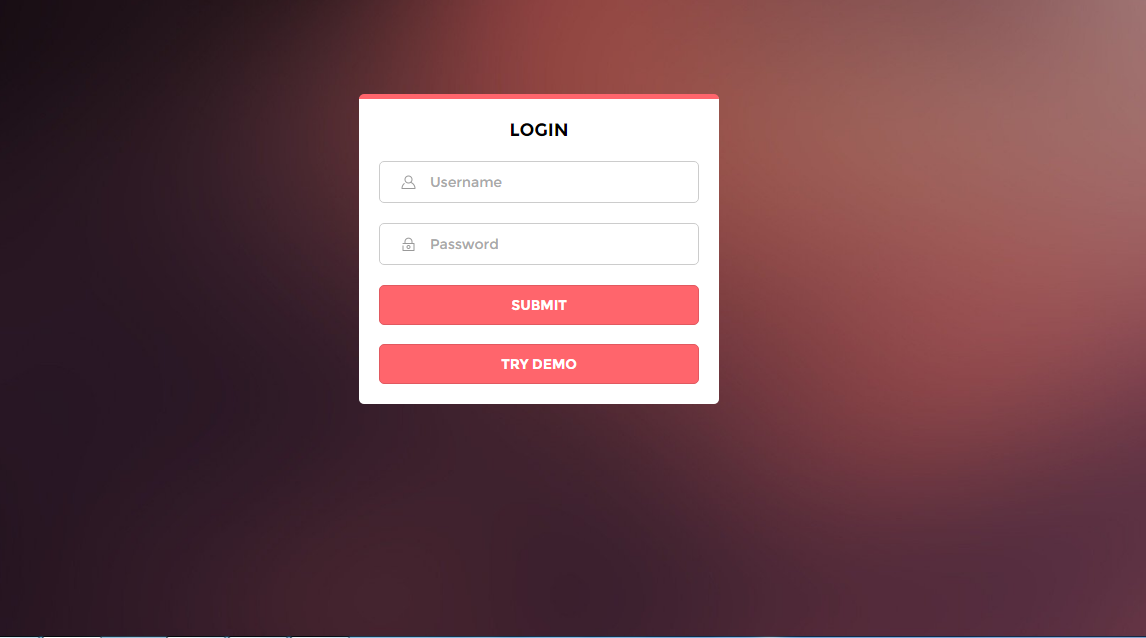
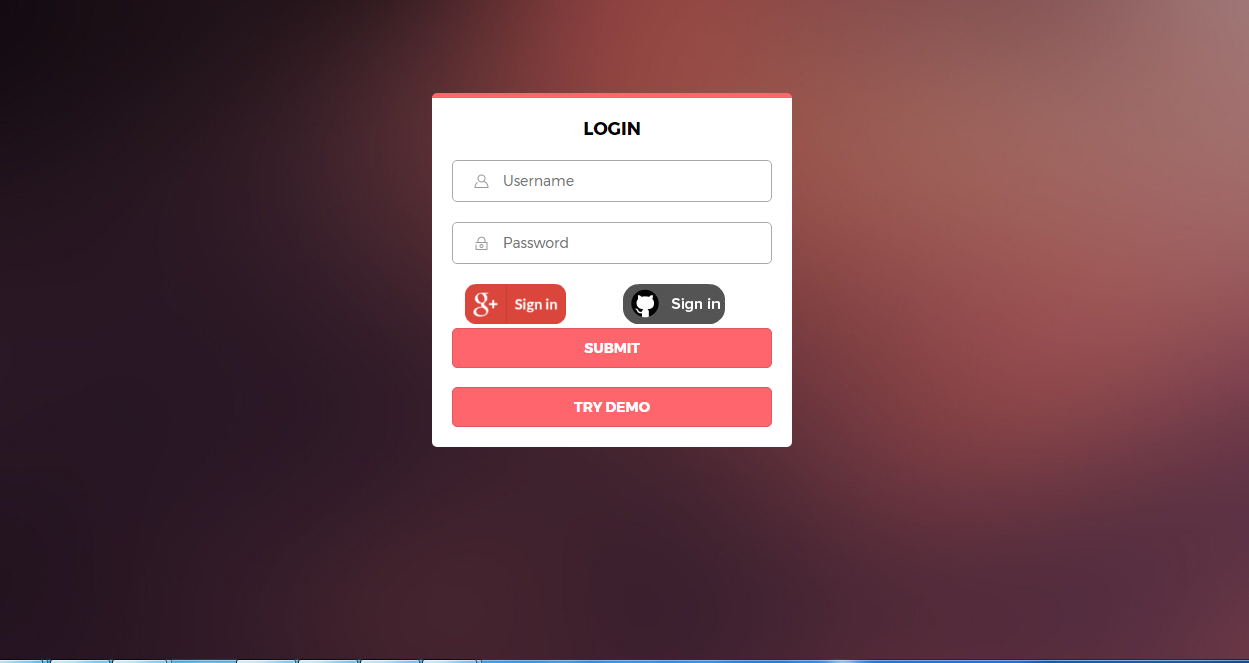
UI Changes

Changed region(s): [[0.3054, 0.1191, 0.6414, 0.685], [0.0, 0.9828, 1.0, 1.0]]

diff --git a/project/helloapp/howdy/templates/index.html b/project/helloapp/howdy/templates/index.html
@@ -53,6 +53,7 @@ body {
 .login-block input#username {
     background: #fff url('http://i.imgur.com/u0XmBmv.png') 20px top no-repeat;
     background-size: 16px 80px;
+    border-color: darkgray
 }
 
 .login-block input#username:focus {
@@ -63,6 +64,7 @@ body {
 .login-block input#password {
     background: #fff url('http://i.imgur.com/Qf83FTt.png') 20px top no-repeat;
     background-size: 16px 80px;
+    border-color: darkgray
 }
 
 .login-block input#password:focus {
@@ -94,6 +96,12 @@ body {
     background: #ff7b81;
 }
 
+#google
+{
+
+    height:40px;
+}
+
 #but2
 {
      margin-top: 0.5cm;
@@ -110,8 +118,11 @@ body {
     <input type="text" value="" placeholder="Username" id="username" />
     <input type="password" value="" placeholder="Password" id="password" />
     
-
-
+   <div align="left">
+    <a href="#"><img src="/static/aboutus/img/google.png" hspace="13" id="google"></a>
+    
+    <a href="#"><img src="/static/aboutus/img/Github.png" hspace="40"></a>
+   </div>
     <button id="but1">Submit</button>
 	
 	<a href="/aboutus/"><button id="but2">Try Demo</button></a>

diff --git a/project/helloapp/howdy/urls.py b/project/helloapp/howdy/urls.py
@@ -3,11 +3,11 @@ from howdy import views
 
 urlpatterns = [
     url(r'^$', views.home, name='home'),
-    url(r'^$', views.HomePageView.as_view()),
+    url(r'^index/$', views.HomePageView.as_view()),
 	url(r'^aboutus/$',views.AboutPageView.as_view()),
 	url('', include('social.apps.django_app.urls', namespace='social')),
 	url('', include('django.contrib.auth.urls', namespace='auth')),
-	
+
 
 ]
       
